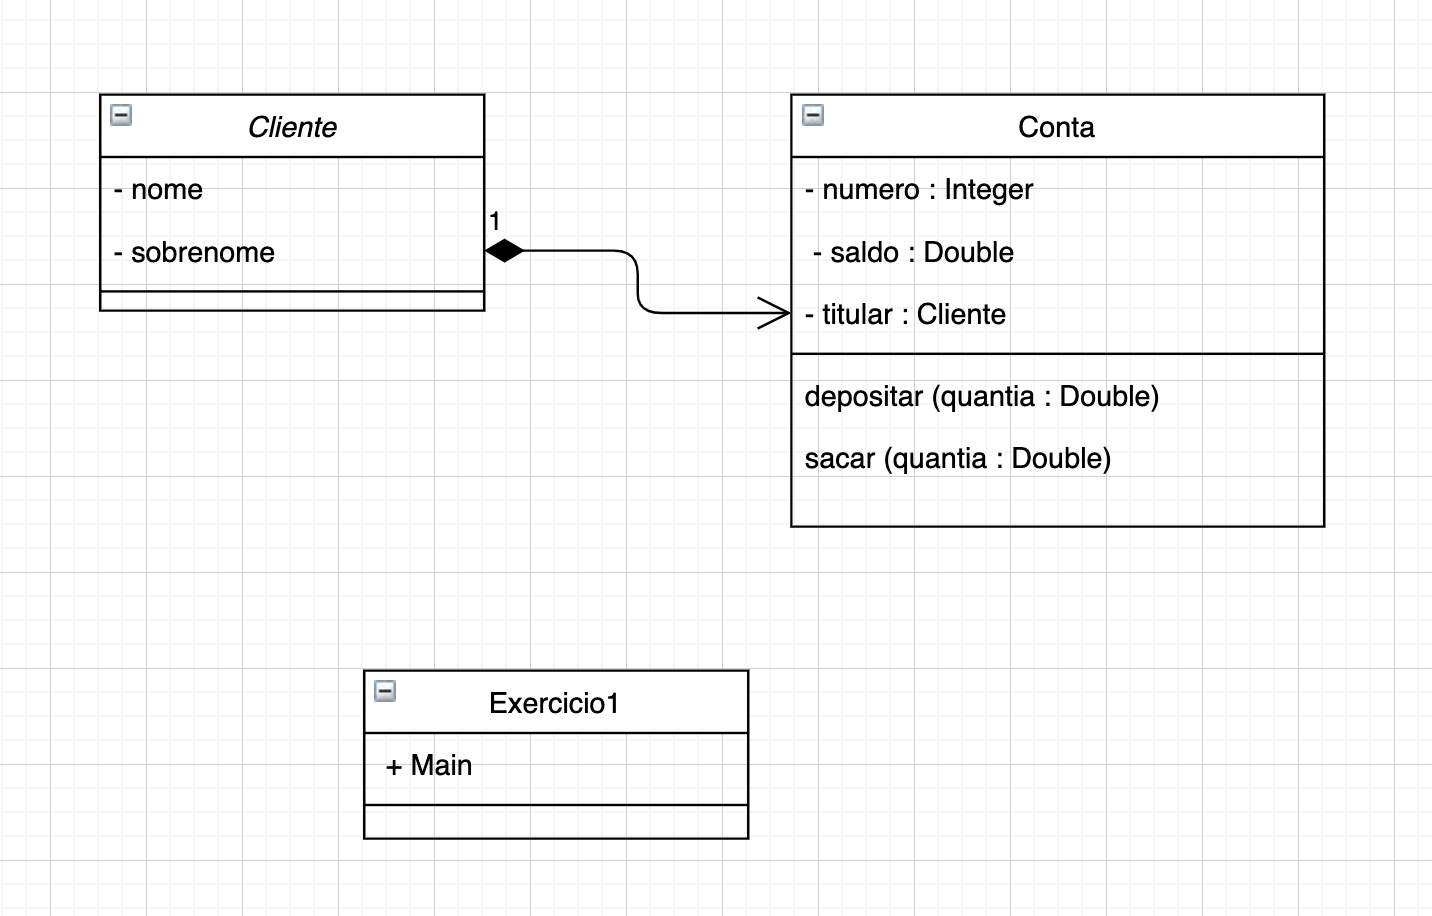
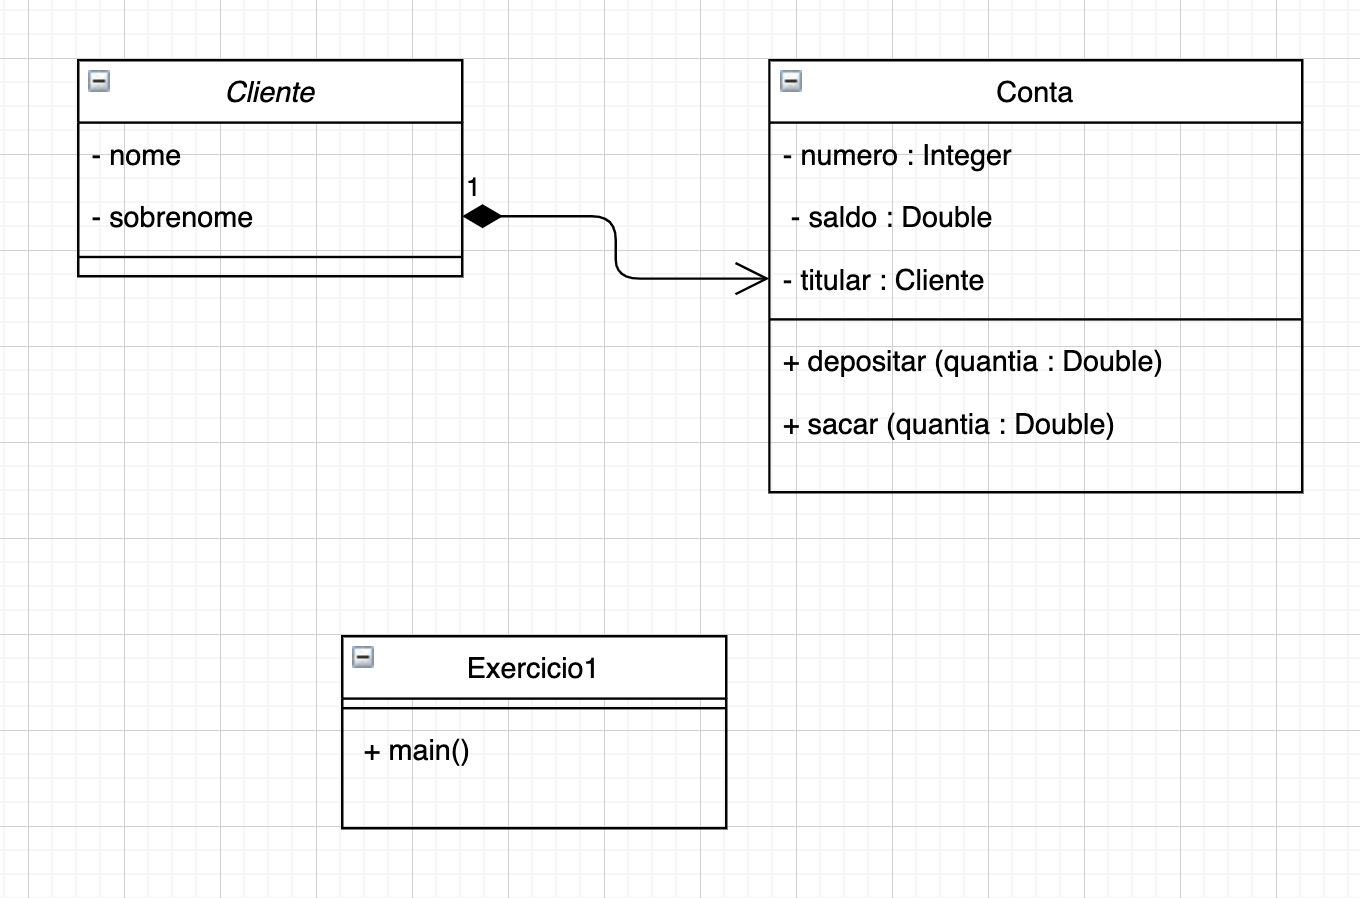
add methods depositar and sacar

diff --git a/aula_05_introducao_exercicios/clientes_contas/README.md b/aula_05_introducao_exercicios/clientes_contas/README.md
@@ -12,4 +12,4 @@
 
 ## Diagrama UML
 
-![Alt text](exercicio1.png?raw=true "Title")
+![Alt text](exercicio1.png?raw=true "UML")
